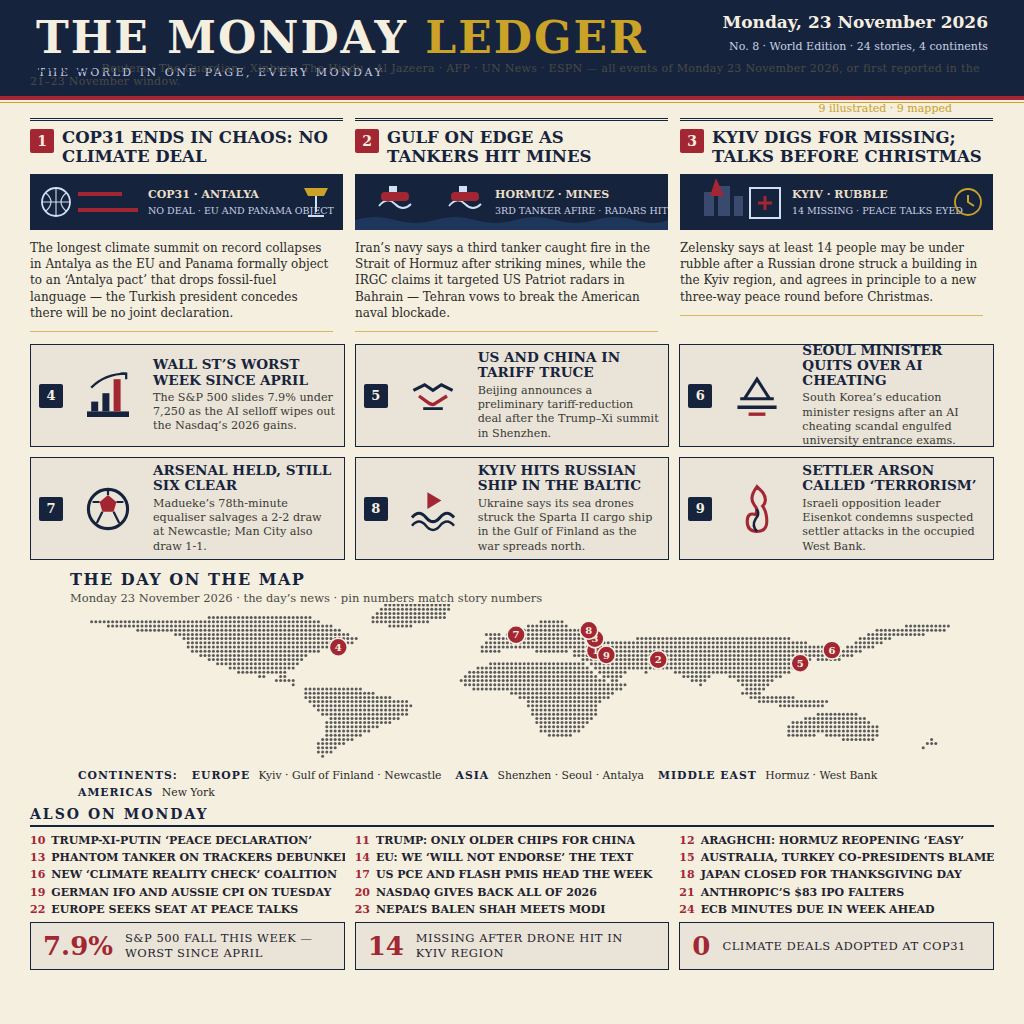
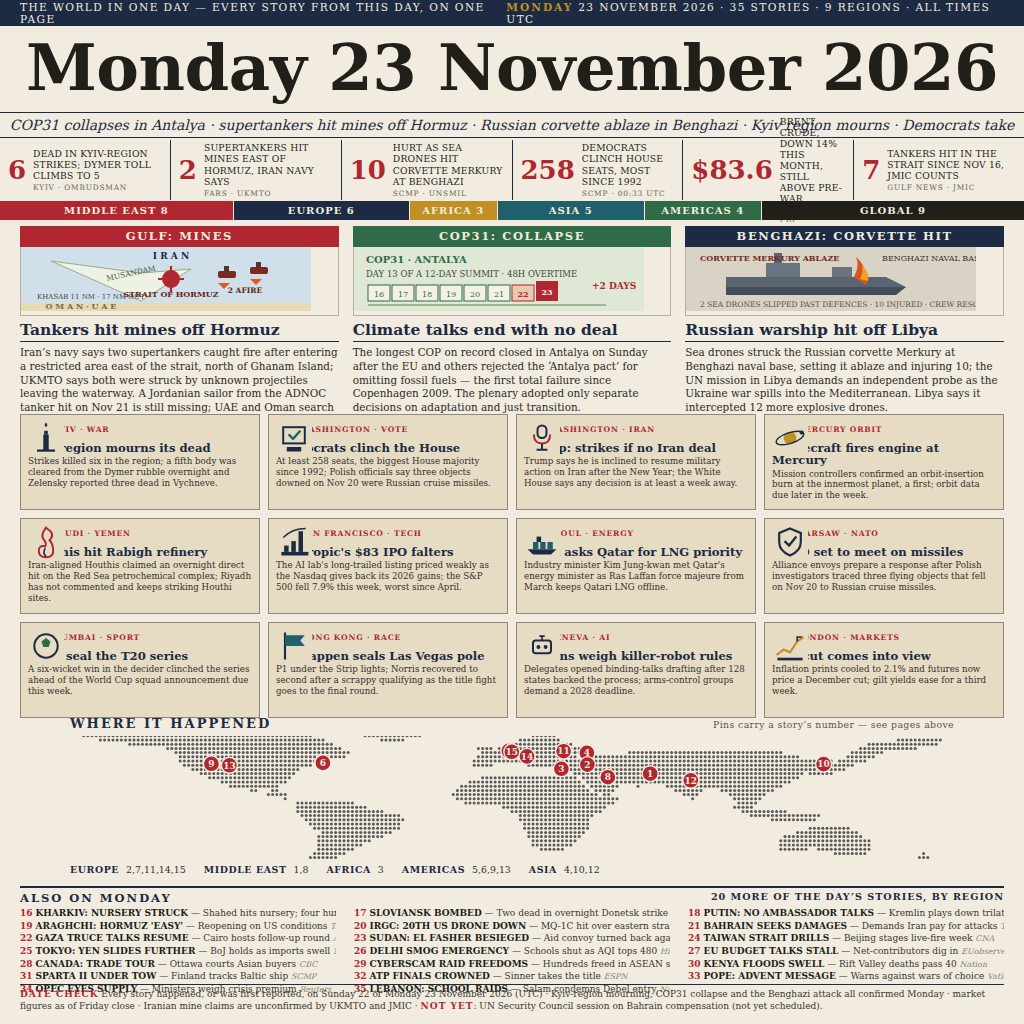
Improved entry: winner-pattern 23 Nov front page, 35 date-checked stories

diff --git a/NOTES.md b/NOTES.md
@@ -1,4 +1,6 @@
 # Notes
 
+entry.png is a Monday 23 November 2026 newspaper front page with 35 date-checked stories across 9 regions, verified by main.py.
+
 This program verifies that entry.png is a valid 1024x1024 PNG (signature, IHDR width/height, IEND chunk, and 1 MiB size limit) using only the Python standard library.
 It then copies entry.png into the directory from the MAKEFUN_OUTPUT_DIR environment variable (default /output) and prints the destination path and byte size.
